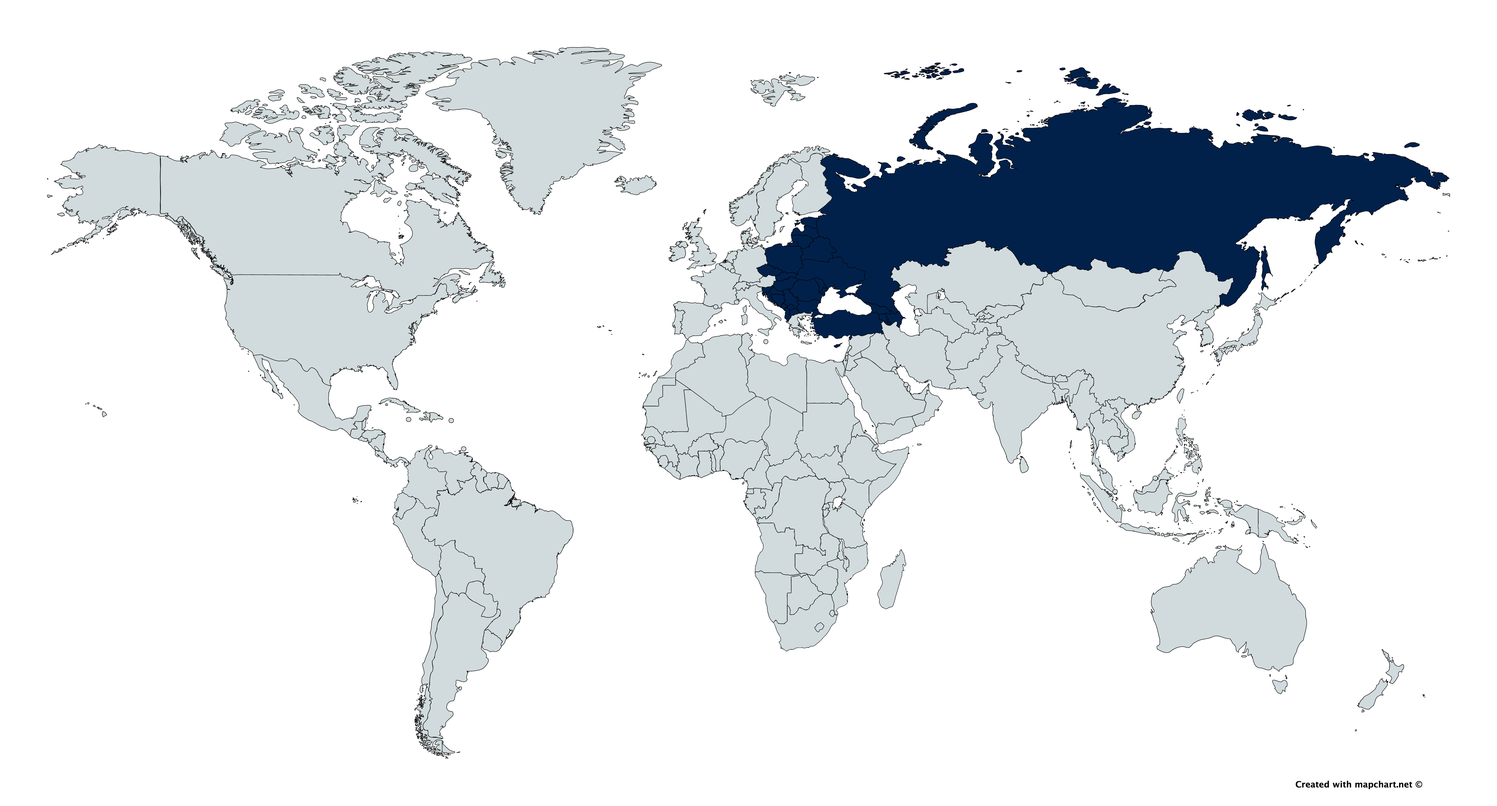
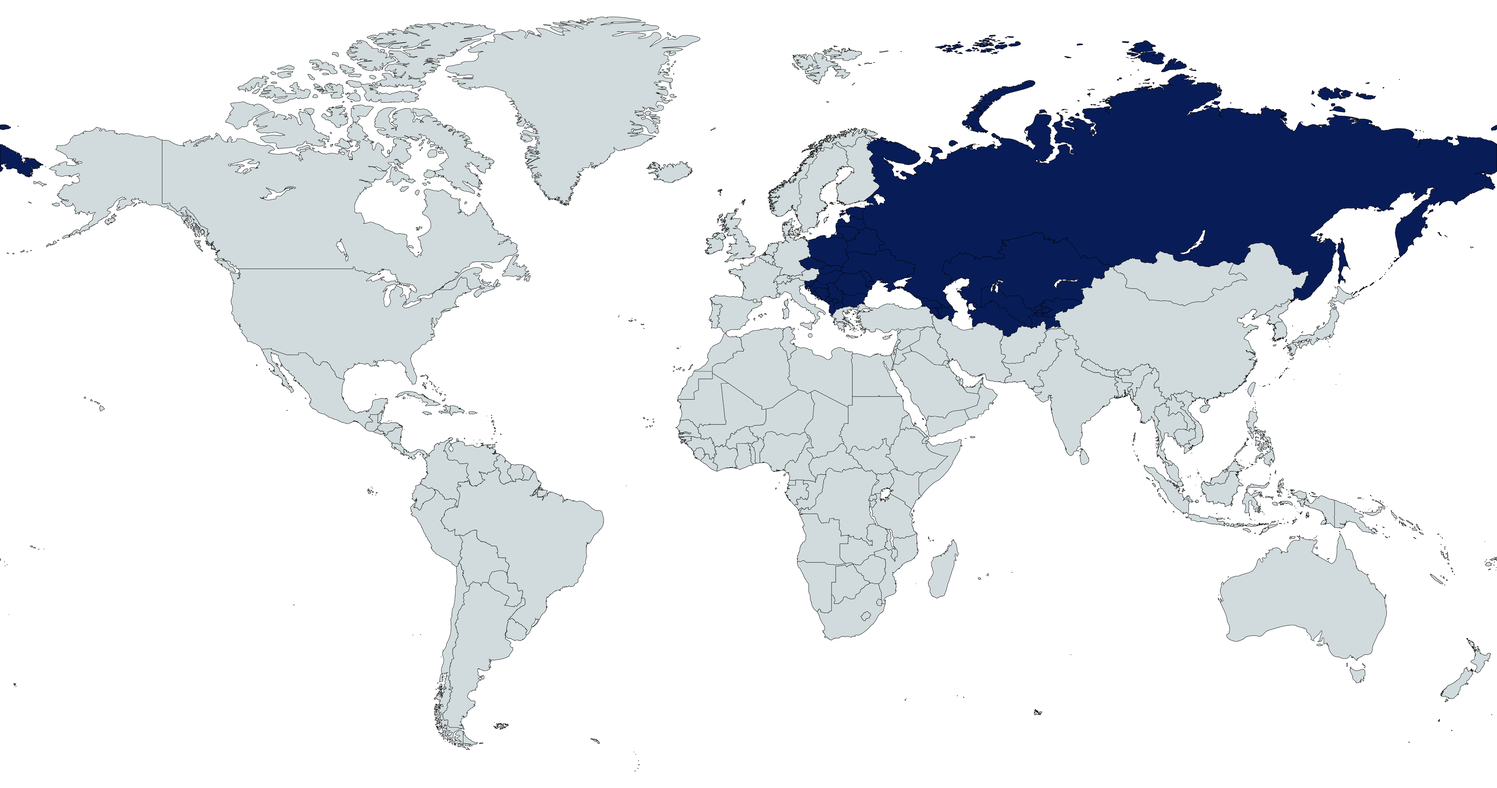
maps

diff --git a/web/src/lib/mapShapes.ts b/web/src/lib/mapShapes.ts
@@ -4,39 +4,42 @@
 // with: cd web && node ../scripts/trace-map-regions.mjs
 export const MAP_SHAPES: Record<string, [number, number][][]> = {
   africa: [
-    [[49.75,41.4], [45.75,42.79], [45,44.65], [44.25,46.51], [43.75,47.91], [43,49.77], [43.25,51.63], [43,53.49], [43.25,54.88], [44,56.74], [45,58.6], [50,60.47], [49.75,61.86], [50.5,63.72], [50.75,65.58], [51,67.44], [50.75,68.84], [50.5,70.7], [51,72.56], [51.25,73.95], [51.5,75.81], [52,77.67], [52.25,79.53], [54.25,79.53], [55.25,77.67], [55.5,75.81], [56.25,73.95], [56,72.56], [57,70.7], [57.5,68.84], [57.5,66.98], [57.25,65.58], [57.25,63.72], [58,61.86], [58.75,60.47], [59.75,58.6], [60.25,56.74], [58.25,54.88], [57.5,53.49], [56.75,51.63], [56.5,49.77], [56,47.91], [55.75,46.51], [55.25,44.65], [49.75,42.79]],
-    [[60,68.84], [60,69.3], [59.75,69.77], [59.25,70.23], [59,70.7], [59,71.16], [59,71.63], [59,72.09], [59,72.56], [58.75,73.02], [58.75,73.49], [58.75,73.95], [58.75,74.42], [59,74.88], [59.25,74.88], [59.5,74.42], [59.5,73.95], [59.5,73.49], [59.5,73.02], [59.75,72.56], [59.75,72.09], [59.75,71.63], [60,71.16], [60,70.7], [60,70.23], [60,69.77], [60,69.3], [60,68.84]],
+    [[47.5,47.87], [46.75,49.29], [45.5,50.71], [45.75,52.13], [45.5,53.55], [45.75,54.98], [46,56.4], [46.5,57.82], [47.75,59.24], [52.75,61.14], [52.5,62.56], [53.25,63.98], [53.5,65.4], [53.75,66.82], [54,68.25], [53.5,69.67], [53.25,71.09], [53.75,72.51], [54,74.41], [54.25,75.83], [54.5,77.25], [55,78.67], [55.25,80.09], [57.25,80.09], [58,78.67], [58.75,77.25], [58.75,75.83], [59.5,73.93], [59.25,72.51], [60,71.09], [61,69.67], [61,68.25], [60.75,66.82], [60.5,65.4], [60.75,63.98], [61.25,62.56], [62.25,60.66], [63,59.24], [63.5,57.82], [63.75,56.4], [61.5,54.98], [60.5,53.55], [56.25,52.13], [55.5,50.71], [49,49.29]],
+    [[63.5,69.19], [63.25,69.67], [63,70.14], [62.5,70.62], [62.25,71.09], [62.25,71.56], [62.5,72.04], [62.5,72.51], [62.25,72.99], [62.25,73.46], [62.25,73.93], [62.25,74.41], [62.25,74.88], [62.5,75.36], [62.5,75.36], [62.75,74.88], [63,74.41], [63,73.93], [63,73.46], [63,72.99], [63.25,72.51], [63.25,72.04], [63.25,71.56], [63.5,71.09], [63.5,70.62], [63.5,70.14], [63.5,69.67], [63.5,69.19]],
   ],
   eeca: [
-    [[74.25,12.09], [73.75,13.02], [70.25,14.42], [68.5,15.81], [65.25,17.21], [65,18.6], [55,20], [55.25,20.93], [55.25,22.33], [55.5,23.72], [55.25,25.12], [55,26.51], [53.75,27.91], [53,28.84], [51.75,30.23], [51.25,31.63], [50.75,33.02], [52,34.42], [51.25,35.81], [51.75,37.21], [52.5,38.14], [54.25,39.53], [54.5,40.93], [58.25,40.93], [60,39.53], [59.5,38.14], [82.25,37.21], [82.75,35.81], [83.25,34.42], [83.5,33.02], [83.75,31.63], [82.25,30.23], [83,28.84], [83.5,27.91], [87.25,26.51], [92.25,25.12], [93.5,23.72], [96,22.33], [95.25,20.93], [94.25,20], [88.5,18.6], [86,17.21], [79.75,15.81], [76.25,14.42], [76.25,13.02]],
-    [[89.5,26.51], [89,26.98], [89,27.44], [88.5,27.91], [88.25,28.37], [88,28.84], [88,29.3], [88,29.77], [88,30.23], [88,30.7], [88,31.16], [88.25,31.16], [88.5,30.7], [88.75,30.23], [89.25,29.77], [89,29.3], [89.5,28.84], [89.5,28.37], [89.25,27.91], [89.25,27.44], [89.5,26.98], [89.5,26.51]],
-    [[63,13.49], [62.5,13.95], [62,14.42], [62,14.88], [61.75,15.35], [61.5,15.81], [61.25,16.28], [61.25,16.74], [61,17.21], [61.5,17.67], [61.5,17.67], [61.5,17.21], [61.5,16.74], [61.5,16.28], [61.75,15.81], [62,15.35], [62.25,14.88], [62.75,14.42], [63,13.95], [64,13.49]],
+    [[78.75,9.48], [77.5,10.9], [74.25,12.32], [73.25,13.74], [69.25,15.17], [68.75,16.59], [58.25,18.01], [58.25,19.43], [58.5,20.85], [58.5,22.75], [58.5,24.17], [58.25,25.59], [56.75,27.01], [56,28.44], [54.75,29.86], [54,31.28], [53.75,32.7], [54.75,34.12], [53.75,36.02], [54.75,37.44], [55.5,38.86], [65,40.28], [67,41.71], [67.5,41.71], [70.25,40.28], [71,38.86], [87,37.44], [88,35.55], [88.5,34.12], [88.75,32.7], [88.75,31.28], [87.25,29.86], [88,28.44], [88.75,27.01], [92.5,25.59], [98,24.17], [99,22.27], [99.75,20.85], [99.75,19.43], [99.5,18.01], [94,16.59], [91,15.17], [84.5,13.74], [80.75,12.32], [81,10.9]],
+    [[95,25.59], [94.75,26.07], [94.5,26.54], [94.25,27.01], [93.75,27.49], [93.5,27.96], [93.5,28.44], [93.25,28.91], [93.25,29.38], [93.25,29.86], [93.5,30.33], [93.5,30.81], [93.5,31.28], [93.5,31.75], [93.5,31.75], [93.75,31.28], [93.75,30.81], [94,30.33], [94.25,29.86], [94.5,29.38], [94.5,28.91], [95,28.44], [95,27.96], [94.75,27.49], [94.75,27.01], [95,26.54], [95,26.07], [95.25,25.59]],
+    [[0,18.48], [0,18.96], [0,19.43], [0,19.91], [0,20.38], [0.5,20.85], [1.25,21.33], [1.5,21.8], [1.75,21.8], [1.75,21.33], [2.25,20.85], [2.25,20.38], [1,19.91], [1,19.43], [0.5,18.96], [0,18.48]],
+    [[66.5,11.37], [66,11.85], [65.75,12.32], [65.5,12.8], [65.25,13.27], [65,13.74], [64.75,14.22], [64.75,14.69], [64.5,15.17], [64.5,15.64], [65,16.11], [65.25,16.11], [65,15.64], [65,15.17], [65,14.69], [65.25,14.22], [65.5,13.74], [65.75,13.27], [66,12.8], [66.5,12.32], [66.75,11.85], [67.25,11.37]],
+    [[76.5,5.21], [75.75,5.69], [75.75,6.16], [76.25,6.64], [76.25,7.11], [76.75,7.58], [77.25,7.58], [77.5,7.11], [76.75,6.64], [76.5,6.16], [76.75,5.69], [76.5,5.21]],
   ],
   iap: [
-    [[78.75,31.16], [73,32.09], [71,33.02], [69.75,34.42], [69,35.35], [68.5,36.74], [68.5,37.67], [67.5,39.07], [66.75,40], [66.75,41.4], [66,42.33], [65.5,43.72], [65,44.65], [63.5,46.05], [64,46.98], [65,48.37], [65.75,49.3], [66.5,50.7], [66.5,51.63], [66.5,53.02], [66.75,53.95], [67,55.35], [67.25,56.28], [67.75,56.28], [75.5,55.35], [75.5,53.95], [75.25,53.02], [74.5,51.63], [74.75,50.7], [77,49.3], [77.75,48.37], [78.25,46.98], [78.75,46.05], [78.75,44.65], [78.5,43.72], [80.5,42.33], [80.75,41.4], [80.25,40], [80.5,39.07], [81,37.67], [81.25,36.74], [82,35.35], [81,34.42], [80.25,33.02], [80,32.09]],
-    [[81.5,68.37], [81.25,68.84], [80.25,69.3], [79.75,70.23], [79.75,70.7], [79.25,71.63], [79,72.09], [78.25,72.56], [77.25,73.49], [77,73.95], [77,74.88], [77.25,75.35], [77,76.28], [77.25,76.74], [77.25,77.21], [77.5,78.14], [77.5,78.6], [77.5,79.53], [77.5,80], [83.5,80.93], [83.75,81.4], [83.75,81.86], [85.25,82.79], [85.25,82.79], [86,81.86], [86,81.4], [86.25,80.93], [86.5,80], [86.5,79.53], [86.75,78.6], [86.75,78.14], [87,77.21], [87,76.74], [86.75,76.28], [86.75,75.35], [86.75,74.88], [86.25,73.95], [86,73.49], [85.75,72.56], [85.5,72.09], [85,71.63], [85,70.7], [85,70.23], [84.5,69.3], [84.5,68.84]],
-    [[77.5,58.6], [77.25,59.07], [77,59.53], [76.75,60], [76.5,60.47], [75.75,60.93], [75.75,61.4], [76,61.86], [76,62.33], [76,62.79], [77.25,62.79], [77.25,62.33], [77.5,61.86], [77.75,61.4], [77.75,60.93], [77.75,60.47], [77.75,60], [77.75,59.53], [77.75,59.07], [77.75,58.6]],
-    [[83,62.79], [82.75,63.26], [82.5,63.72], [83.25,64.19], [83.5,64.65], [83.5,65.12], [83.5,65.58], [84,66.05], [84.25,66.05], [85.25,65.58], [85.25,65.12], [85,64.65], [85,64.19], [84.5,63.72], [84,63.26], [83.25,62.79]],
-    [[72.25,59.07], [72.5,59.53], [72.75,60], [73,60.47], [73.25,60.93], [73.25,61.4], [73.5,61.86], [73.75,62.33], [73.75,62.79], [74,63.26], [74.25,63.72], [74.5,63.72], [74.5,63.26], [74.25,62.79], [74.25,62.33], [74,61.86], [74,61.4], [73.75,60.93], [73.25,60.47], [73,60], [72.75,59.53], [72.5,59.07]],
+    [[84,30.81], [83.5,31.75], [77.25,32.7], [74,34.12], [73.75,35.07], [72.5,36.49], [72.5,37.44], [71.75,38.86], [70.5,39.81], [70.75,41.23], [70,42.18], [69.5,43.6], [69.25,44.55], [68,45.97], [67.5,46.92], [68.75,48.34], [69.25,49.29], [70.25,50.71], [70.25,51.66], [70.5,53.08], [70.75,54.03], [71,55.45], [71.25,56.4], [79.25,56.4], [80,55.45], [80,54.03], [79.5,53.08], [79,51.66], [79.25,50.71], [82,49.29], [82.75,48.34], [83.25,46.92], [83.5,45.97], [83.25,44.55], [83.25,43.6], [85.5,42.18], [85.5,41.23], [85,39.81], [85.75,38.86], [86,37.44], [86,36.49], [87,35.07], [86,34.12], [85,32.7], [84.75,31.75]],
+    [[86.75,68.25], [86.25,68.72], [86,69.19], [84.75,70.14], [84.5,70.62], [84,71.56], [83.75,72.04], [83.5,72.51], [82,73.46], [81.75,73.93], [81.5,74.88], [81.75,75.36], [81.75,76.3], [81.75,76.78], [82,77.25], [82,78.2], [82,78.67], [82.25,79.62], [82.25,80.09], [88.5,81.04], [88.75,81.52], [88.75,81.99], [89.5,82.94], [90.5,82.94], [91.25,81.99], [91.5,81.52], [91.5,81.04], [91.75,80.09], [92,79.62], [92.25,78.67], [92.25,78.2], [92.25,77.25], [92.25,76.78], [92.25,76.3], [92,75.36], [91.75,74.88], [91.5,73.93], [91.25,73.46], [90.75,72.51], [90.25,72.04], [90.25,71.56], [90,70.62], [90,70.14], [89.5,69.19], [89.5,68.72]],
+    [[82.25,58.77], [82,59.24], [81.75,59.72], [81.5,60.19], [81,60.66], [80.5,61.14], [80.25,61.61], [80.5,62.09], [80.5,62.56], [80.75,63.03], [81.75,63.51], [82,63.51], [82,63.03], [82,62.56], [82.25,62.09], [82.25,61.61], [82.5,61.14], [82.5,60.66], [82.25,60.19], [82.5,59.72], [82.5,59.24], [82.5,58.77]],
+    [[88,63.03], [87.75,63.51], [87.5,63.98], [88.25,64.45], [88.5,64.93], [88.5,65.4], [88.5,65.88], [89,66.35], [89.5,66.35], [90.5,65.88], [90.5,65.4], [90.25,64.93], [90.25,64.45], [89.75,63.98], [89,63.51], [88.25,63.03]],
+    [[76.75,59.72], [77,60.19], [77.25,60.66], [77.5,61.14], [77.75,61.61], [77.75,62.09], [78,62.56], [78.25,63.03], [78.25,63.51], [78.5,63.98], [79,64.45], [79,64.45], [79,63.98], [79,63.51], [78.75,63.03], [78.5,62.56], [78.5,62.09], [78.5,61.61], [78,61.14], [77.5,60.66], [77.25,60.19], [77,59.72]],
   ],
   lac: [
-    [[28.25,55.81], [27.5,57.21], [27.25,58.6], [27,60.47], [26.5,61.86], [26.5,63.72], [26.75,65.12], [27.25,66.98], [27.5,68.37], [28.5,70.23], [29.25,71.63], [29.25,73.49], [29.25,74.88], [29,76.74], [28.75,78.14], [28.75,80], [28.5,81.4], [28.5,82.79], [28.5,84.65], [28.5,86.05], [28,87.91], [28,89.3], [28.5,91.16], [29,91.16], [29.5,89.3], [29.5,87.91], [30,86.05], [30,84.65], [31.75,82.79], [32.25,81.4], [33.25,79.53], [33.75,78.14], [34.5,76.74], [34.75,74.88], [36.25,73.49], [36.75,71.63], [37,70.23], [37,68.37], [37.75,66.98], [38,65.12], [37,63.72], [34.25,61.86], [33.75,60.47], [33,58.6], [31.5,57.21]],
-    [[18,44.65], [18.25,45.12], [18.25,45.58], [18.5,46.05], [18.75,46.51], [19,46.98], [19,47.44], [19.5,48.37], [19.75,48.84], [20,49.3], [20,49.77], [20,50.23], [20,50.7], [20.5,51.63], [21,52.09], [21.5,52.56], [23,53.02], [23.25,53.49], [23.75,53.95], [24.5,54.42], [25.25,55.35], [25.25,55.81], [25.25,56.28], [25.5,56.28], [25.25,55.81], [25.25,55.35], [25.25,54.42], [25.25,53.95], [25.25,53.49], [24,53.02], [24,52.56], [24,52.09], [24.25,51.63], [24.25,50.7], [21.75,50.23], [21.75,49.77], [21.5,49.3], [21.5,48.84], [21.75,48.37], [21.25,47.44], [21.25,46.98], [21,46.51], [21,46.05], [20.75,45.58], [19.75,45.12]],
+    [[29.75,55.92], [28.75,57.35], [28.5,58.77], [28.25,60.66], [27.75,62.09], [27.5,63.98], [28,65.4], [28.5,67.3], [28.75,68.72], [30,70.62], [30.5,72.04], [30.5,73.93], [30.5,75.36], [30.25,77.25], [30.25,78.67], [30.25,80.57], [29.75,81.99], [29.75,83.41], [30,85.31], [29.75,86.73], [29.5,88.63], [29.25,90.05], [30,91.94], [30.5,91.94], [31,90.05], [31,88.63], [31.5,86.73], [31.5,85.31], [32.5,83.41], [33.75,81.99], [35,80.09], [35.25,78.67], [36,77.25], [36.25,75.36], [38,73.93], [38.5,72.04], [38.75,70.62], [39,68.72], [39.5,67.3], [40,65.4], [39,63.98], [36,62.09], [35.5,60.66], [33.75,58.77], [33,57.35]],
+    [[18.75,45.02], [18.75,45.5], [18.75,45.97], [19,46.45], [19.25,46.92], [19.75,47.39], [19.75,47.87], [20,48.34], [20.25,48.82], [20.75,49.76], [20.75,50.24], [20.75,50.71], [20.75,51.18], [21.25,51.66], [21.75,52.13], [22,52.61], [22.75,53.08], [24.25,53.55], [25,54.5], [25.75,54.98], [26,55.45], [26.25,55.92], [26.25,56.4], [26.5,56.4], [26.5,55.92], [26.5,55.45], [26.5,54.98], [26.5,54.03], [25,53.55], [25,53.08], [25.25,52.61], [25.25,52.13], [25.25,51.66], [25.25,51.18], [25.5,50.71], [22.5,50.24], [22.5,49.29], [22.5,48.82], [22.5,48.34], [22.25,47.87], [22,47.39], [22,46.92], [21.75,46.45], [21.5,45.97], [20.5,45.5]],
   ],
   swana: [
-    [[65.25,29.77], [63.5,30.7], [63.25,31.63], [60.25,33.02], [59.5,33.95], [61.25,35.35], [60.75,36.28], [60.75,37.21], [61.5,38.6], [61.25,39.53], [59,40.93], [57,41.86], [56.75,42.79], [56.5,44.19], [56.5,45.12], [56.75,46.51], [57,47.44], [57.25,48.37], [57.75,49.77], [58,50.7], [58.5,52.09], [58.5,53.02], [58.75,53.95], [59.75,53.95], [60.75,53.02], [61.75,51.63], [62,50.7], [62.5,49.77], [60.5,48.37], [63.25,47.44], [63,46.05], [64,45.12], [65,44.19], [65.5,42.79], [65.75,41.86], [66.5,40.47], [66.25,39.53], [67.5,38.6], [68,37.21], [68,36.28], [69.25,34.88], [69.5,33.95], [69,33.02], [67.5,31.63], [67,30.7]],
+    [[58.75,38.86], [58,39.34], [57.5,40.28], [57.75,41.23], [51,41.71], [48.25,42.65], [48,43.6], [47.5,44.55], [47.5,45.02], [47.25,45.97], [46.5,46.92], [46,47.87], [46,48.34], [45.75,49.29], [45.5,50.24], [51,51.18], [56.75,51.66], [56.75,52.61], [56.75,53.55], [56.25,54.03], [56.25,54.98], [56.5,55.92], [56.5,56.87], [56.5,56.87], [59.25,55.92], [59.75,54.98], [63.25,54.03], [64,53.55], [65,52.61], [65.5,51.66], [66,50.71], [66.25,50.24], [65.75,49.29], [64,48.34], [66.75,47.87], [67.25,46.92], [66.75,45.97], [68,45.02], [68.5,44.55], [69,43.6], [69.5,42.65], [69.5,41.71], [69.5,41.23], [63,40.28], [61.75,39.34]],
   ],
   wec: [
-    [[22.5,17.67], [22.5,18.14], [13.5,19.07], [10.75,20], [10.75,20.93], [10.75,21.86], [10.75,22.79], [10.75,23.72], [10.75,24.19], [10.75,25.12], [10.75,26.05], [12.5,26.98], [13,27.91], [13.5,28.84], [13.75,29.77], [13.75,30.7], [14,31.16], [14.5,32.09], [14.25,33.02], [23,33.95], [25.5,34.88], [26.5,35.81], [26.75,36.74], [27.25,36.74], [28.75,35.81], [28.75,34.88], [29.25,33.95], [29.75,33.02], [32.25,32.09], [32.5,31.16], [32,30.23], [31.5,29.77], [31,28.84], [31,27.91], [30.5,26.98], [29,26.05], [28.25,25.12], [23.25,24.19], [23.5,23.72], [24.25,22.79], [24.5,21.86], [24.25,20.93], [23.5,20], [23,19.07], [23,18.14]],
-    [[37.75,6.05], [35.75,6.51], [32,7.44], [31,8.37], [30.5,9.3], [30.5,10.23], [28.5,11.16], [30.25,12.09], [29.5,13.02], [32.25,13.95], [32.75,14.88], [33,15.81], [33.25,16.74], [34,17.67], [34.25,18.6], [34.25,19.53], [33.5,20.47], [33.75,21.4], [33.75,22.33], [34.25,23.26], [34.5,24.19], [34.75,25.12], [35.75,26.05], [35.75,26.05], [36,25.12], [36,24.19], [36.5,23.26], [36.75,22.33], [38,21.4], [38.5,20.47], [40.25,19.53], [40.25,18.6], [41.25,17.67], [40.5,16.74], [40.25,15.81], [41.25,14.88], [42,13.95], [41.25,13.02], [41.75,12.09], [41.5,11.16], [42,10.23], [41.75,9.3], [43,8.37], [41.25,7.44], [41,6.51]],
-    [[53.5,18.6], [52.75,19.07], [52,19.53], [51.75,20], [51.5,20.47], [51.25,20.93], [51,21.4], [50.75,21.86], [50.75,22.33], [50.5,22.79], [50.25,23.26], [50,23.72], [49.75,24.19], [49.25,24.65], [48.75,25.12], [49,26.05], [49,26.51], [49,26.98], [49,27.44], [50.5,27.91], [50.75,28.37], [50.75,28.84], [50.75,29.3], [50.75,29.3], [51.25,28.84], [51.5,28.37], [51.5,27.91], [51.5,27.44], [51.75,26.98], [52,26.51], [54.5,25.58], [54.75,25.12], [55,24.65], [55.25,24.19], [55,23.72], [55,23.26], [54.75,22.79], [54.75,22.33], [54.75,21.86], [54.75,21.4], [54.75,20.93], [54.75,20.47], [54.5,20], [54.5,19.53], [54.75,19.07]],
-    [[49.5,28.84], [49.75,29.3], [49.75,29.77], [49.75,30.23], [49.75,30.7], [48.75,31.63], [48.5,32.09], [48,32.56], [47.75,33.02], [47,33.95], [46.25,34.42], [46.75,34.88], [47,35.35], [47.25,36.28], [47.25,36.74], [47,37.21], [45,37.67], [45.25,38.6], [45.25,39.07], [45.25,39.53], [45,40], [45.25,40.93], [45.75,41.4], [45.75,41.4], [46.75,40.93], [47,40], [47,39.53], [47.25,39.07], [47.5,38.6], [50.75,37.67], [50.5,37.21], [50.25,36.74], [50.25,36.28], [50.75,35.35], [51.25,34.88], [51.5,34.42], [50.5,33.95], [50.25,33.02], [50.75,32.56], [51,32.09], [50.75,31.63], [50.75,30.7], [49.75,30.23], [49.75,29.77], [49.75,29.3]],
-    [[26.75,6.51], [26.25,6.98], [24.75,7.44], [24.25,7.91], [24.25,8.37], [26,8.84], [26.25,9.3], [25.25,9.77], [25.5,10.23], [25,10.7], [25,11.16], [25.25,11.63], [24.75,12.09], [24.75,12.56], [26.5,13.02], [26.5,13.02], [26.5,12.56], [26.5,12.09], [26.75,11.63], [27.25,11.16], [27.5,10.7], [27.25,10.23], [28,9.77], [28.75,9.3], [29.25,8.84], [29.5,8.37], [29.5,7.91], [30.25,7.44], [31,6.98], [29.75,6.51]],
-    [[24.5,15.81], [24.25,16.28], [24.25,16.74], [24,17.21], [24.75,17.67], [24.5,18.14], [25.5,18.6], [27.75,19.07], [28,19.53], [28.25,20], [28.75,20.47], [28.75,20.93], [28.5,21.4], [28.25,21.86], [28.25,22.33], [28,22.79], [28.5,23.26], [28.75,23.72], [29,24.19], [29.5,24.19], [30.25,23.72], [30.25,23.26], [29.75,22.79], [30.75,22.33], [31,21.86], [31,21.4], [30.5,20.93], [30,20.47], [29.5,20], [29.25,19.53], [29.5,19.07], [29.25,18.6], [28.75,18.14], [28.5,17.67], [27.5,17.21], [27.5,16.74], [27.25,16.28], [26,15.81]],
-    [[19.75,15.81], [17.25,16.28], [16.75,16.74], [16.5,17.21], [17,17.67], [18.25,18.14], [18.25,18.6], [17.25,19.07], [18,19.53], [20.5,19.53], [20.5,19.07], [20.5,18.6], [20,18.14], [20,17.67], [19.75,17.21], [19.75,16.74], [19.75,16.28], [19.75,15.81]],
-    [[23,8.37], [22.75,8.84], [22.5,9.3], [22.5,9.77], [23.5,10.23], [23.25,10.7], [23.5,11.16], [23.5,11.16], [24.25,10.7], [24.75,10.23], [24.5,9.77], [24,9.3], [23.5,8.84], [23.25,8.37]],
-    [[46.25,27.44], [46,27.91], [46,28.37], [46,28.84], [46.25,29.3], [46.5,29.77], [46.75,30.23], [46.75,30.7], [46.5,31.16], [46.5,31.63], [46.5,32.09], [47.25,32.09], [47.5,31.63], [47.25,31.16], [47,30.7], [47,30.23], [46.75,29.77], [46.5,29.3], [46.25,28.84], [46.5,28.37], [46.25,27.91], [46.25,27.44]],
-    [[15.25,15.35], [15.25,15.81], [15,16.28], [15,16.74], [15.25,17.21], [15.5,17.21], [16,16.74], [16.25,16.28], [17,15.81], [16.75,15.35]],
-    [[43,21.86], [42,22.33], [41.75,22.79], [41.75,23.26], [42.75,23.26], [43.5,22.79], [43.5,22.33], [43.25,21.86]],
+    [[23.5,15.64], [23.25,16.59], [14.25,17.54], [11,18.48], [11,19.43], [11,20.38], [11,21.33], [11,22.27], [11,23.22], [11,24.17], [11,25.12], [11.75,26.07], [13.25,27.49], [13.5,28.44], [14,29.38], [13.75,30.33], [14.25,31.28], [14.5,32.23], [15.5,33.18], [24.5,34.12], [26.5,35.07], [27.75,36.02], [27.5,36.97], [28.5,36.97], [30,36.02], [30,35.07], [30.5,34.12], [31,33.18], [33.5,32.23], [34.25,31.28], [33.75,30.33], [33,29.38], [32.5,28.44], [32.5,27.49], [32,26.07], [30,25.12], [29.5,24.17], [24.5,23.22], [25.25,22.27], [25.5,21.33], [25.75,20.38], [25.25,19.43], [25.25,18.48], [24,17.54], [24,16.59]],
+    [[39.75,2.37], [37.75,3.32], [33.75,4.27], [33,5.21], [31.5,6.16], [32,7.11], [30,8.53], [31.75,9.48], [30.75,10.43], [33.75,11.37], [34.25,12.32], [34.5,13.27], [34.75,14.69], [35.5,15.64], [36,16.59], [36,17.54], [36,18.48], [35.25,19.91], [35.25,20.85], [36.25,21.8], [35.75,22.75], [36.25,23.7], [36.5,24.64], [37.75,24.64], [37.75,23.7], [38.25,22.75], [38.25,21.8], [39,20.85], [40.25,19.91], [41.75,18.48], [43,17.54], [42.5,16.59], [43.5,15.64], [42.5,14.69], [43.5,13.27], [44,12.32], [44.25,11.37], [43.5,10.43], [44,9.48], [43.75,8.53], [44.25,7.11], [44.5,6.16], [45.75,5.21], [43.75,4.27], [43.5,3.32]],
+    [[56.75,16.59], [56,17.06], [55.5,17.54], [55,18.01], [54.25,18.48], [54.5,19.43], [54,19.91], [54,20.38], [53.5,20.85], [53.5,21.33], [53,22.27], [52.75,22.75], [52.5,23.22], [52.25,23.7], [51.75,24.17], [51.5,25.12], [51.75,25.59], [51.5,26.07], [51.75,26.54], [51.75,27.01], [53.5,27.96], [53.5,28.44], [53.5,28.91], [53.75,28.91], [54.25,28.44], [54.25,27.49], [54.25,27.01], [54.5,26.54], [55,26.07], [56.25,25.59], [57.75,24.64], [58,24.17], [58.25,23.7], [58.25,23.22], [58,22.75], [58,21.8], [58,21.33], [58,20.85], [57.75,20.38], [57.75,19.91], [57.75,18.96], [57.5,18.48], [57.75,18.01], [58,17.54], [58,17.06]],
+    [[52.25,28.44], [52.25,28.91], [52.5,29.38], [52.5,29.86], [51.75,30.81], [51.25,31.28], [51.25,31.75], [50.5,32.7], [50.5,33.18], [50,33.65], [49.5,34.12], [49.5,35.07], [49.75,35.55], [49.75,36.02], [49.75,36.97], [49.75,37.44], [47.5,37.91], [47.75,38.39], [47.75,39.34], [47.5,39.81], [47.5,40.28], [48.25,41.23], [48.25,41.71], [48.25,41.71], [49.25,41.23], [49.5,40.28], [49.5,39.81], [49.75,39.34], [53.75,38.39], [53.5,37.91], [53.5,37.44], [53,36.97], [53.25,36.02], [53.5,35.55], [52.5,35.07], [53.5,34.12], [53.25,33.65], [53,33.18], [53.25,32.7], [53.75,31.75], [53.75,31.28], [53.75,30.81], [52.5,29.86], [52.5,29.38], [52.5,28.91]],
+    [[27.5,3.32], [26.25,3.79], [25.5,4.27], [25,4.74], [25.25,5.21], [26.25,5.69], [28,6.16], [26.25,6.64], [26.5,7.11], [26.75,7.58], [27,8.06], [26,8.53], [26.5,9], [25.75,9.48], [25.75,9.95], [25.25,10.43], [28,10.43], [27.75,9.95], [28,9.48], [28,9], [28.75,8.53], [28.75,8.06], [28.5,7.58], [29,7.11], [30,6.64], [30.25,6.16], [30.75,5.69], [31.25,5.21], [31.25,4.74], [32,4.27], [32.5,3.79], [32,3.32]],
+    [[25.75,13.74], [25.25,14.22], [25.25,14.69], [25.25,15.17], [25.25,15.64], [25.75,16.11], [25.5,16.59], [27,17.06], [28.75,17.54], [29,18.01], [29.5,18.48], [29.75,18.96], [30,19.43], [30,19.91], [29.75,20.38], [29.5,20.85], [29.5,21.33], [28.5,21.8], [29.75,22.27], [30.25,22.75], [30.25,23.22], [30.75,23.7], [31,23.7], [31.75,23.22], [31.75,22.75], [31.5,22.27], [31.25,21.8], [32.25,21.33], [32.5,20.85], [32.5,20.38], [32,19.91], [31.75,19.43], [31.25,18.96], [30.75,18.48], [30.75,18.01], [31,17.54], [30.75,17.06], [30.25,16.59], [30,16.11], [29.25,15.64], [29,15.17], [28.5,14.69], [28.5,14.22], [27,13.74]],
+    [[20.5,13.74], [18,14.22], [17.25,14.69], [17.25,15.17], [17.75,15.64], [17.5,16.11], [18.75,16.59], [19,17.06], [17.5,17.54], [18.5,18.01], [21.25,18.01], [21.25,17.54], [21.5,17.06], [20.75,16.59], [20.75,16.11], [20.75,15.64], [20.5,15.17], [20.5,14.69], [20.5,14.22], [20.5,13.74]],
+    [[23.75,5.69], [23.5,6.16], [23.75,6.64], [23.5,7.11], [24.5,7.58], [24,8.06], [24.5,8.53], [24.75,8.53], [25.25,8.06], [25.75,7.58], [25.5,7.11], [25.5,6.64], [24.75,6.16], [24.25,5.69]],
+    [[15.5,13.27], [15.75,13.74], [15.5,14.22], [15.25,14.69], [15.25,15.17], [15.75,15.64], [16.25,15.64], [16.25,15.17], [16.5,14.69], [17,14.22], [17.5,13.74], [17.25,13.27]],
+    [[48.5,27.49], [48.5,27.96], [48.5,28.44], [48.5,28.91], [48.75,29.38], [49.25,29.86], [49.25,30.33], [49.25,30.81], [49,31.28], [49,31.75], [49,32.23], [50,32.23], [50,31.75], [50,31.28], [49.75,30.81], [49.75,30.33], [49.5,29.86], [49.25,29.38], [49,28.91], [49,28.44], [49,27.96], [48.5,27.49]],
+    [[24.25,10.9], [24.5,11.37], [24.5,11.85], [24.5,12.32], [27.5,12.32], [27.5,11.85], [24.75,11.37], [24.5,10.9]],
+    [[44.75,20.85], [44,21.33], [44,21.8], [44,22.27], [44.75,22.75], [44.75,22.75], [45.25,22.27], [45.75,21.8], [45.75,21.33], [45.5,20.85]],
   ],
 }

diff --git a/docs/MAP_PLAN.md b/docs/MAP_PLAN.md
@@ -1,6 +1,6 @@
 # Interactive regional map
 
-Status: **built**, first pass. Supersedes the old "ship placeholder now, add
+Status: **done**. Supersedes the old "ship placeholder now, add
 `react-simple-maps` later" plan in `docs/DEPENDENCIES.md`/`CLAUDE.md`. Origin:
 design discussion in a separate Claude session (transcript
 `cse_01W2ZJL5goHca9qxnvY6sjB4`), continued here once real assets existed.
@@ -9,7 +9,7 @@ design discussion in a separate Claude session (transcript
 
 Six PNGs from mapchart.net — full world-map copies, each with one region
 recolored navy against a neutral-gray base, all identical canvas size
-(6460×3480) — used as **hover-swap frames**: one image sits visible as the
+(6460×3403) — used as **hover-swap frames**: one image sits visible as the
 default/resting state, and crossfades to the region-specific highlight on
 hover/focus. No live geographic rendering, no `react-simple-maps`/d3-geo/
 topojson — zero new dependencies.
@@ -26,35 +26,12 @@ support.
 | File | Role |
 |---|---|
 | `web/src/maps/*.png` | Source exports from mapchart.net (not web-served; input to the build scripts) |
-| `web/public/images/map/{slug}.png` | Web-optimized per-region highlight frames (1600px wide, palette PNG, ~150KB each) |
-| `web/public/images/map/default.png` | Synthesized "all regions" composite — the resting/default view |
+| `web/public/images/map/{slug}.png` | Web-optimized per-region highlight frames (1600px wide, palette PNG, ~165KB each) |
+| `web/public/images/map/default.png` | Synthesized unhighlighted composite — the resting/default view |
 | `web/src/lib/mapShapes.ts` | Traced hit-area polygons per region, `[x%, y%][]` per landmass/island |
-| `web/src/components/RegionalMap.astro` | The component — stacks the images, builds the SVG `clipPath`s, wires hover/focus |
-| `scripts/build-map-assets.mjs` | Regenerates the `public/images/map/` PNGs + composite from the source files |
+| `web/src/components/RegionalMap.astro` | The component — stacks the images, builds the SVG `clipPath`s, wires hover/focus, shows a region-name tag on hover/focus |
+| `scripts/build-map-assets.mjs` | Regenerates the `public/images/map/` PNGs + default composite from the source files |
 | `scripts/trace-map-regions.mjs` | Regenerates `mapShapes.ts` by auto-detecting the highlight color and tracing hit-area polygons from pixels |
-
-## Known issue — fix before calling this final
-
-The `swana` and `eeca` source PNGs (currently `MECA.png` / `EER.png`) don't
-match those regions' actual coverage:
-- **North Africa is orphaned** — not highlighted in either the Africa file or
-  the SWANA file, even though the region is named "Southwest Asia & **North
-  Africa**."
-- **Central Asia is in the wrong file** — it's highlighted in the
-  Middle-East file, but the region is named "Eastern Europe & **Central
-  Asia**."
-
-Fix: regenerate those two exports on mapchart.net —
-- `swana` → Southwest Asia (Saudi Arabia, Yemen, Oman, UAE, Qatar, Bahrain,
-  Kuwait, Iraq, Iran, Jordan, Israel/Palestine, Lebanon, Syria) **+** North
-  Africa (Morocco, Algeria, Tunisia, Libya, Egypt) — **without** Central Asia
-- `eeca` → keep the existing Eastern Europe/Russia/Caucasus fill, **add**
-  Central Asia (Kazakhstan, Uzbekistan, Turkmenistan, Kyrgyzstan, Tajikistan)
-
-Keep the same map framing/zoom/projection when re-exporting — the six source
-files must stay pixel-aligned (identical canvas size) for the hover-swap and
-the traced hit-areas to line up. Drop the two replacements into
-`web/src/maps/` (same filenames), then re-run both scripts (below).
 
 ## Regenerating after a source image changes
 
@@ -65,6 +42,10 @@ node ../scripts/trace-map-regions.mjs    # re-traces web/src/lib/mapShapes.ts
 ```
 Both scripts auto-detect the highlight color and re-derive everything from
 pixels — no manual coordinate editing needed even after a source PNG changes.
+They also read the source dimensions at runtime (not hardcoded), but if a new
+export batch changes the canvas aspect ratio, update the `width`/`height`
+attributes and `aspect-ratio` in `RegionalMap.astro` to match (currently
+1600×843, i.e. the 6460×3403 sources scaled down).
 
 ## How the hit-areas are generated (for future reference)
 
@@ -94,21 +75,32 @@ lighten-blending all 6 region sources together: for any pixel, at most one of
 the six files has it navy and the other five have it gray, and since gray has
 higher channel values than navy, a per-pixel max/lighten blend always picks
 gray — pixel-accurate, no separate "blank" export needed from mapchart.net.
-Regions light up only on hover/focus.
+Regions light up only on hover/focus, and a small dark tag in the corner of
+the map names the region you're on.
+
+## The Pacific-square artifact
+
+All six mapchart.net exports (both the original and the corrected re-export)
+carry a stray ~74×74px navy square in open Pacific ocean at the same spot in
+every file — a perfect square, so almost certainly a leftover legend/UI swatch
+baked into the export rather than a real territory. It's navy in *every*
+source, so it survives both the darken- and lighten-blend tricks and would
+otherwise show up as a permanently "selected" dot on every region's frame and
+the default view. Both build scripts patch it to white (via `ARTIFACT_RECT_PCT`,
+a percentage rect so it still lines up if a future export's resolution
+changes) before doing anything else with the source images. If a future
+mapchart.net batch doesn't have this artifact, the patch is harmless — it just
+paints over open ocean that was already white.
 
 ## `USA.png`
 
-Not used. Different export resolution than the other six (1024×552 vs.
-6460×3480), though verified to be the same map framing/projection (resized up
-and overlaid on another region file — borders lined up pixel-for-pixel) in
-case it's useful later. Not a clickable region — the paper doesn't cover
-domestic US news, and it's not in the site's taxonomy. Left in `web/src/maps/`;
-delete it if it's not going to be used for anything.
+No longer part of the source set (removed). Was a different export resolution
+than the other six (1024×552) and never used in any output — the paper doesn't
+cover domestic US news, and there's no corresponding region in the site's
+taxonomy.
 
 ## Still open
 
-- Regenerate `swana`/`eeca` (above) — the one thing blocking this from being
-  "done" rather than a preview.
 - Touch-device behavior: currently a tap on a region navigates immediately
   (hover/focus styles are irrelevant on touch — there's no highlight step).
   Revisit if you'd rather have a highlight-then-navigate two-tap pattern.

diff --git a/CLAUDE.md b/CLAUDE.md
@@ -86,12 +86,11 @@ build the automation without being asked.
 - Type: **traditional broadsheet**, Spectral (current baseline).
 - Map: **built**, dependency-free — `RegionalMap.astro` stacks mapchart.net PNG
   exports (`web/public/images/map/`) and crossfades on hover/focus via a small
-  script. Click-through hit-areas are SVG `clipPath`s traced from the actual
-  highlighted pixels in each source PNG (`web/src/lib/mapShapes.ts`, regenerate
-  per the script in `docs/MAP_PLAN.md` if the source images change). No
-  `react-simple-maps`/d3-geo — superseded, see `docs/MAP_PLAN.md`. The `swana`
-  and `eeca` source PNGs are still provisional (mismatched North Africa /
-  Central Asia coverage) — swap them once regenerated on mapchart.net.
+  script, with a corner tag naming the region. Click-through hit-areas are SVG
+  `clipPath`s traced from the actual highlighted pixels in each source PNG
+  (`web/src/lib/mapShapes.ts`; regenerate with `scripts/build-map-assets.mjs` +
+  `scripts/trace-map-regions.mjs` if the source images in `web/src/maps/` ever
+  change). No `react-simple-maps`/d3-geo — superseded, see `docs/MAP_PLAN.md`.
 
 ## Still open / not started
 
@@ -101,8 +100,8 @@ build the automation without being asked.
   this (their choice of repo name/org).
 - Sanity project — user creates it (`SETUP.md`); until then everything runs on
   sample data.
-- Regenerate the `swana`/`eeca` map PNGs (see above), Google Form sync, archive
-  content migration, Buttondown embed beyond the link.
+- Google Form sync, archive content migration, Buttondown embed beyond the
+  link.
 
 ## Gotchas
 
